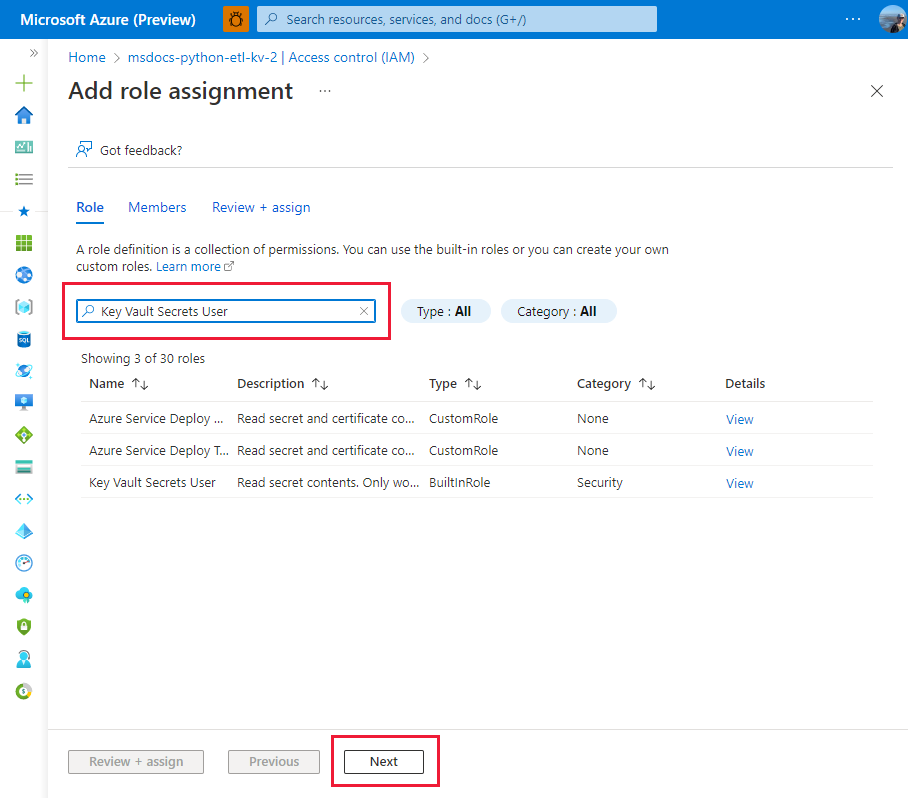
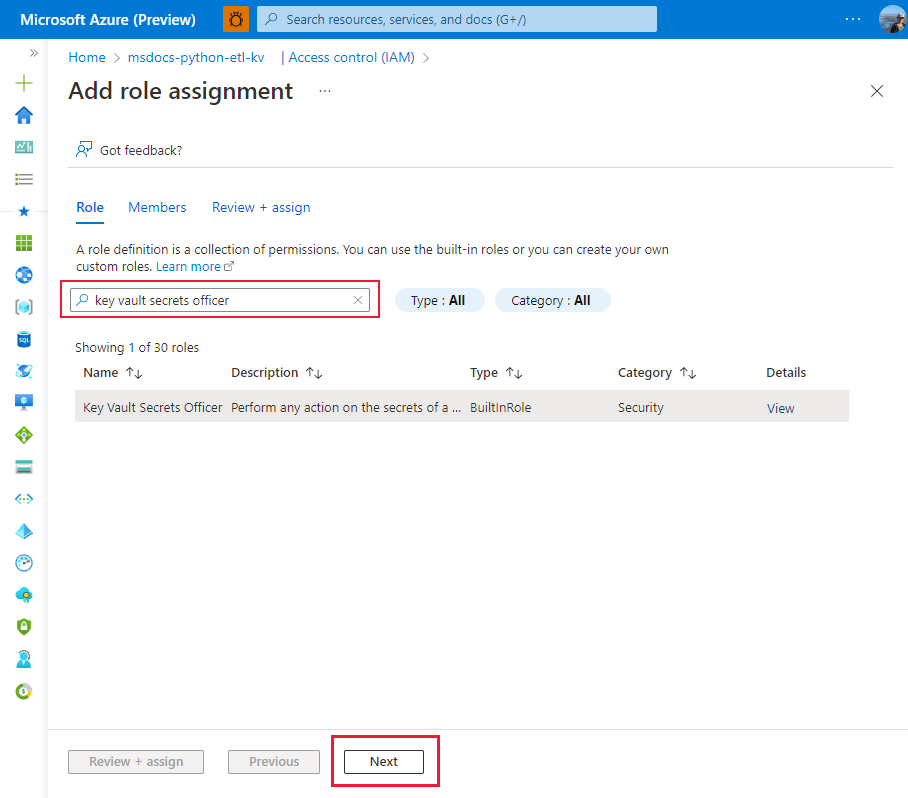
edits

diff --git a/articles/python/tutorial-deploy-azure-cloud-python-etl-02-get-data.md b/articles/python/tutorial-deploy-azure-cloud-python-etl-02-get-data.md
@@ -317,7 +317,7 @@ Configure your own account to have access to Key Vault Secrets. Do this immediat
 
 ### [Azure portal](#tab/azure-portal)
 
-You enabled role-based access control for your key vault resource in a preceding step. Add your identity to your key vault resource to access secrets while locally developing the application.
+You enabled role-based access control for your key vault resource in a preceding step. Add your identity to your key vault resource to _create_ and _read_ secrets while locally developing the application.
 
 :::row:::
     :::column:::
@@ -334,7 +334,7 @@ You enabled role-based access control for your key vault resource in a preceding
 :::row:::
     :::column:::
         **Step 2.** Navigate to create an Azure Key Vault resource in the Azure portal.
-        1. Search for **Key Vaults Secrets User** and select it.
+        1. Search for **Key Vault Secrets Officer** and select it.
         1. Select **Next**.
     :::column-end:::
     :::column:::

diff --git a/articles/python/tutorial-deploy-azure-cloud-python-etl-04-deploy-solution.md b/articles/python/tutorial-deploy-azure-cloud-python-etl-04-deploy-solution.md
@@ -649,6 +649,9 @@ If the cloud-based Azure Functions app didn't place a process file in the Data L
     * On your local app, change the `host.json` file's value for `logging.logLevel.default` to `Information` and execute the request against the search endpoint again. 
     * In the Azure portal, on your Functions App, select the `api_search` function.
     * On the **Monitor** page, view the **Invocation Traces**. 
+* Key Vault role-based access: 
+    * Your own user identity should have the role of **Key Vault Secrets Officer** to create and manage secrets
+    * Your function's system assigned identity should have the role of **Key Vault Secrets User** to read secrets.
 
 ## 13. Delete the resource group for your project
 
